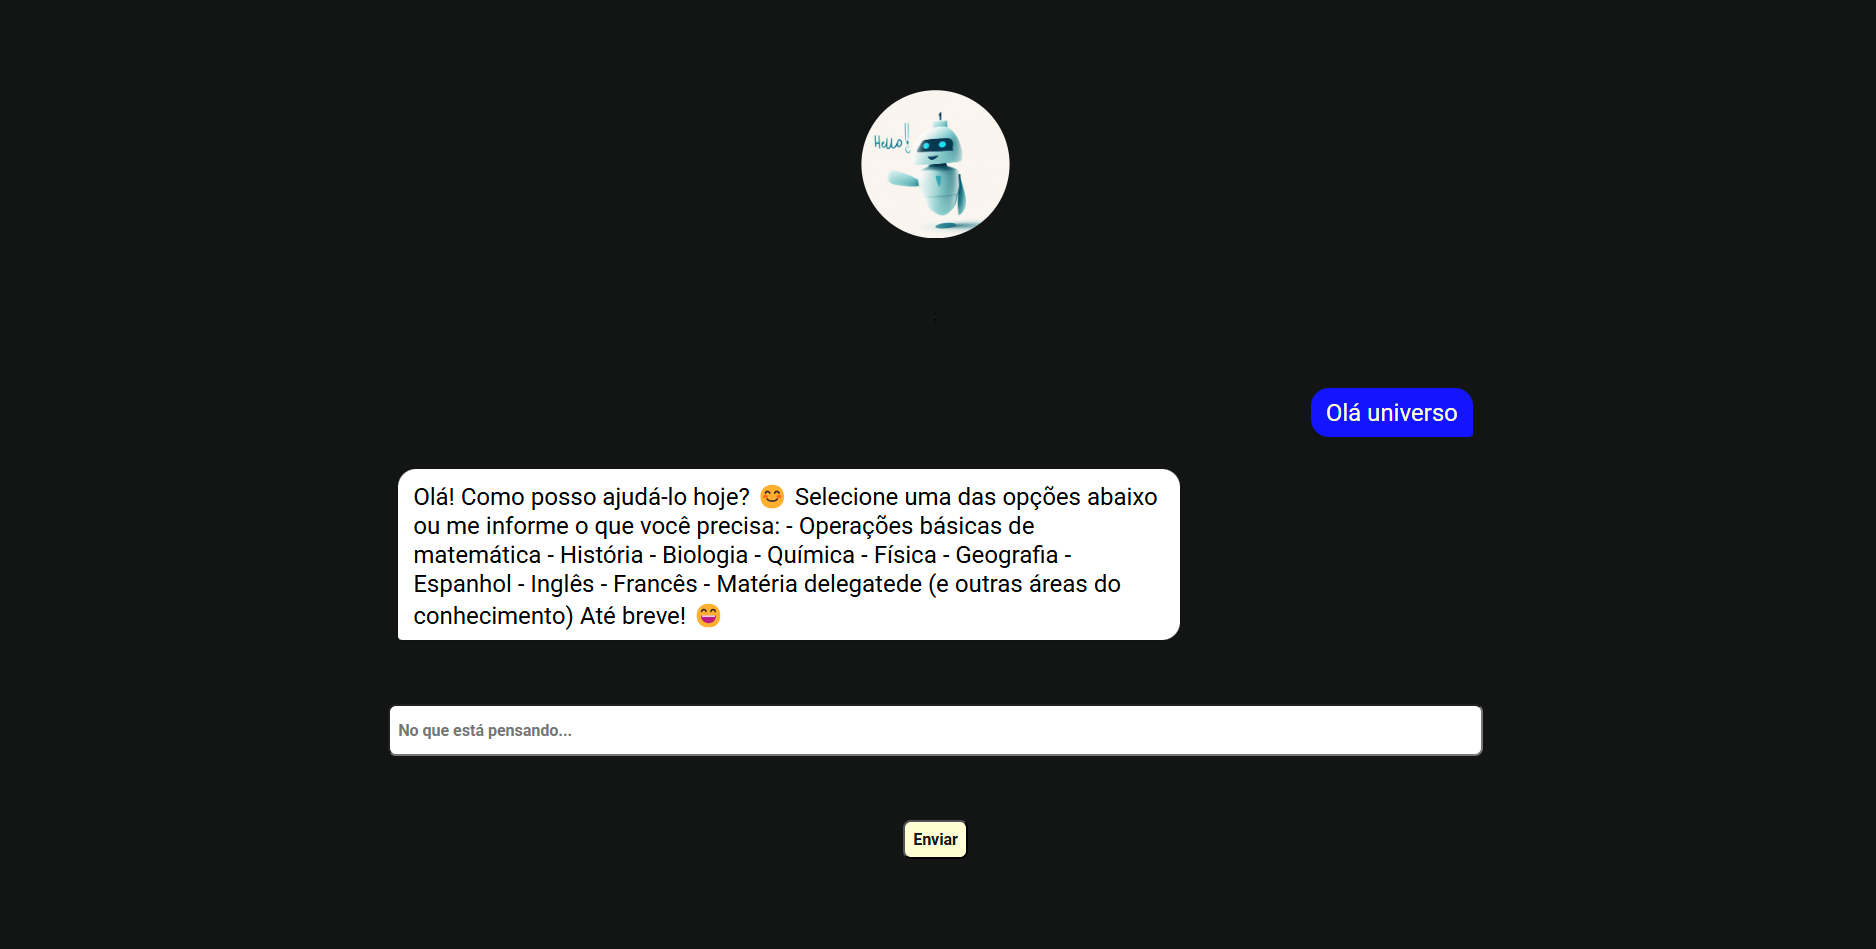
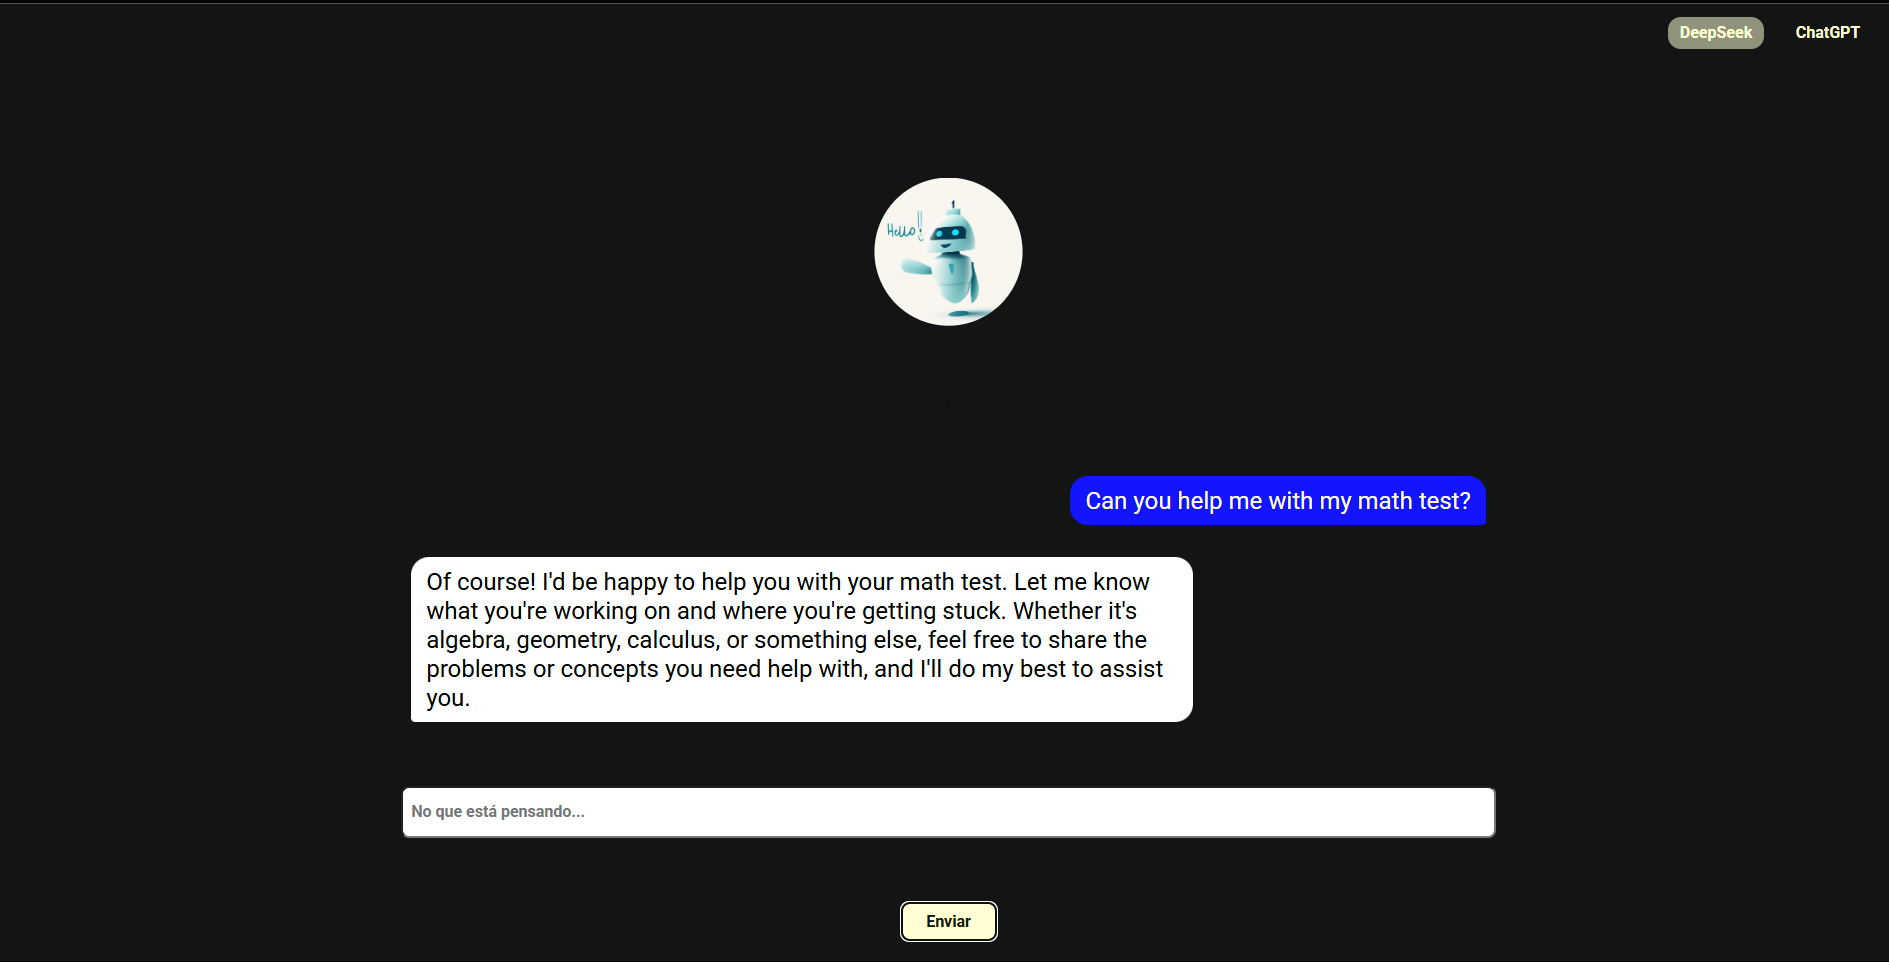
feat: added chatGPT integration, applied dependency inversion to API CALL and updated layout to be responsive on mobile

diff --git a/src/components/Chat/index.tsx b/src/components/Chat/index.tsx
@@ -2,38 +2,25 @@ import React, { useState } from "react";
 import "./styles.scss";
 import bot from "../../images/bot.jpg";
 
-export function ChatComponent() {
+import { IApiService } from "../../interfaces/IApiService";
+
+interface ChatComponentProps {
+  apiService: IApiService;
+  selectedApi: any;
+}
+
+export function ChatComponent({ apiService, selectedApi }: ChatComponentProps) {
   const [inputMessage, setInputMessage] = useState("");
   const [response, setResponse] = useState("");
-
   const [userQuestion, setUserQuestion] = useState("");
   const [hideChat, setHideChat] = useState(true);
   const [isLoading, setIsLoading] = useState(false);
   const [showTitle, setShowTitle] = useState(true);
 
   const fetchIaData = async (message: string) => {
-    const apiResponse = await fetch(
-      "https://openrouter.ai/api/v1/chat/completions",
-      {
-        method: "POST",
-        headers: {
-          Authorization:
-            `Bearer ${process.env.REACT_APP_IA_API_KEY}`,
-            "Content-Type": "application/json",
-        },
-        body: JSON.stringify({
-          model: "deepseek/deepseek-r1-distill-llama-70b:free",
-          messages: [
-            {
-              role: "user",
-              content: message,
-            },
-          ],
-        }),
-      }
-    )
-      .then((res) => res.json())
-      .then((data) => data.choices[0].message.content)
+    const apiResponse = await apiService
+      .fetchResponse(message)
+      .then((res) => res)
       .catch((err) => {
         console.log("UNEXPECTED ERROR", err);
       });
@@ -47,10 +34,10 @@ export function ChatComponent() {
     setIsLoading(true);
     setShowTitle(false);
     setResponse("");
+    setInputMessage("");
 
     fetchIaData(inputMessage).then((result) => {
-      setResponse(result);
-      setInputMessage("");
+      setResponse(result || "Erro processando os dados");
       setHideChat(false);
       setIsLoading(false);
     });
@@ -62,7 +49,7 @@ export function ChatComponent() {
         <div className="image">
           <img src={bot} alt="Bot" />
         </div>
-        {showTitle === true && <h1> Inicie a conversa </h1>};
+        {showTitle === true && <h1> Inicie a conversa com {selectedApi} </h1>};
         {isLoading === true && <div className="loading">...</div>}
         {!hideChat && (
           <div className="chat-container">

diff --git a/src/App.tsx b/src/App.tsx
@@ -1,10 +1,39 @@
-import { Chat } from './components/Chat';
-import './styles/global.scss'
+import { useEffect, useState } from "react";
+import { Chat } from "./components/Chat";
+import "./styles/global.scss";
+import DeepSeekService from "./services/DeepSeekService";
+import ChatGptService from "./services/ChatGptService";
+import { Menu } from "./components/Menu";
+import externalApis from "./data/external-apis.json";
+import { IExternalApi } from "./interfaces/IExternalApi";
 
 function App() {
+  const [selectedApi, setSelectedApi] = useState<string>("");
+  const [availableApis, setAvailableApis] = useState<IExternalApi[]>([]);
+
+  useEffect(() => {
+    setAvailableApis(externalApis.data);
+    const fetchedApis = externalApis.data.map(
+      (item: IExternalApi) => item.identifier
+    );
+
+    setSelectedApi(fetchedApis[0]);
+  }, []);
+
+  const apiService =
+    //IT's the same URL but it may change depending on API Service
+    selectedApi === "deepseek"
+      ? new DeepSeekService(process.env.REACT_APP_IA_API_KEY || "")
+      : new ChatGptService(process.env.REACT_APP_IA_API_KEY || "");
+
   return (
     <div className="App">
-      <Chat/>
+      <Menu
+        setSelectedApi={setSelectedApi}
+        selectedItem={selectedApi}
+        availableApis={availableApis}
+      />
+      <Chat apiService={apiService} selectedApi={selectedApi} />
     </div>
   );
 }

diff --git a/src/services/DeepSeekService.ts b/src/services/DeepSeekService.ts
@@ -1,0 +1,41 @@
+import { IApiService } from "../interfaces/IApiService";
+
+class DeepSeekService implements IApiService {
+  private apiKey: string;
+
+  constructor(apiKey: string) {
+    this.apiKey = apiKey;
+  }
+
+  async fetchResponse(message: string): Promise<string> {
+    try {
+      const response = await fetch(
+        "https://openrouter.ai/api/v1/chat/completions",
+        {
+          method: "POST",
+          headers: {
+            Authorization: `Bearer ${this.apiKey}`,
+            "Content-Type": "application/json",
+          },
+          body: JSON.stringify({
+            model: "deepseek/deepseek-r1-distill-llama-70b:free",
+            messages: [
+              {
+                role: "user",
+                content: message,
+              },
+            ],
+          }),
+        }
+      );
+
+      const data = await response.json();
+      return data.choices[0].message.content;
+    } catch (error) {
+      console.error("Error fetching response from OpenRouter with deepseek engine:", error);
+      return "Error fetching response.";
+    }
+  }
+}
+
+export default DeepSeekService;

diff --git a/src/services/ChatGptService.ts b/src/services/ChatGptService.ts
@@ -1,0 +1,41 @@
+import { IApiService } from "../interfaces/IApiService";
+
+class ChatGptService implements IApiService {
+  private apiKey: string;
+
+  constructor(apiKey: string) {
+    this.apiKey = apiKey;
+  }
+
+  async fetchResponse(message: string): Promise<string> {
+    try {
+      const response = await fetch(
+        "https://openrouter.ai/api/v1/chat/completions",
+        {
+          method: "POST",
+          headers: {
+            Authorization: `Bearer ${this.apiKey}`,
+            "Content-Type": "application/json",
+          },
+          body: JSON.stringify({
+            model: "gpt-3.5-turbo",
+            messages: [
+              {
+                role: "user",
+                content: message,
+              },
+            ],
+          }),
+        }
+      );
+
+      const data = await response.json();
+      return data.choices[0].message.content;
+    } catch (error) {
+      console.error("Error fetching response from OpenRouter with chatgpt engine:", error);
+      return "Error fetching response.";
+    }
+  }
+}
+
+export default ChatGptService;

diff --git a/src/components/Menu/index.tsx b/src/components/Menu/index.tsx
@@ -1,0 +1,41 @@
+import React, { useState } from "react";
+import "./styles.scss";
+import { IExternalApi } from "../../interfaces/IExternalApi";
+
+interface MenuComponentProps {
+  selectedItem: string | null;
+  setSelectedApi: (value: string) => void;
+  availableApis: IExternalApi[];
+}
+export function MenuComponent({
+  selectedItem,
+  setSelectedApi,
+  availableApis,
+}: MenuComponentProps) {
+  const getClassNames = (item: string) => {
+    if (item === selectedItem) return "menu-item selected";
+    return "menu-item";
+  };
+
+  const handleButtonClick = (content: string | null) => {
+    setSelectedApi(content || "");
+  };
+
+  return (
+    <>
+      <div className="menu">
+        {availableApis.map((apiItem) => (
+          <button
+            onClick={(e) => handleButtonClick(apiItem.identifier)}
+            className={getClassNames(apiItem.identifier)}
+            key={apiItem.identifier}
+          >
+            {apiItem.name}
+          </button>
+        ))}
+      </div>
+    </>
+  );
+}
+
+export const Menu = React.memo(MenuComponent);

diff --git a/src/components/Menu/styles.scss b/src/components/Menu/styles.scss
@@ -1,0 +1,32 @@
+.menu {
+  width: 100%;
+  display: flex;
+  justify-content: end;
+  gap: 1rem;
+  padding-bottom: 0.8rem;
+  padding-top: 0.8rem;
+  margin-bottom: 1rem;
+  text-align: end;
+  position: sticky;
+  top: 0;
+  background-color: var(--primary);
+  z-index: 999;
+
+  span {
+    color: var(--gray);
+  }
+
+  .menu-item {
+    cursor: pointer;
+    background-color: var(--primary);
+    color: var(--primary-light);
+    padding: 0.4rem;
+    border: none;
+  }
+
+  .selected {
+    border-radius: 0.8em;
+    background-color: var(--primary-light-transparent);
+    color: var(--primary-light);
+  }
+}

diff --git a/src/components/Chat/styles.scss b/src/components/Chat/styles.scss
@@ -18,7 +18,6 @@
     }
   }
 
-  //depois daqui
   .chat-container {
     display: flex;
     flex-direction: column;
@@ -69,12 +68,31 @@
       opacity: 100;
     }
   }
-  
+
   @keyframes l {
     to {
-      clip-path: inset(0)
+      clip-path: inset(0);
     }
   }
 
-  //até aqui
+  @media (max-width: 769px) {
+    padding-left: 0;
+    padding-right: 0;
+    .chat-container {
+      gap: 2rem;
+      width: 100%;
+    }
+
+    .message {
+      padding: 1rem;
+    }
+    input {
+      border-radius: 0.5em;
+      width: 96%;
+      height: 3rem;
+    }
+    button {
+      width: 40%;
+    }
+  }
 }

diff --git a/src/styles/global.scss b/src/styles/global.scss
@@ -42,6 +42,7 @@ button {
     padding: 0.5rem;
     border-radius: 0.5em;
     cursor: pointer;
+    width: 6rem;
 }
 
 input {

diff --git a/src/interfaces/IExternalApi.ts b/src/interfaces/IExternalApi.ts
@@ -1,0 +1,5 @@
+export interface IExternalApi {
+  name: string,
+  identifier: string,
+  description: string,
+}

diff --git a/src/interfaces/IApiService.ts b/src/interfaces/IApiService.ts
@@ -1,0 +1,3 @@
+export interface IApiService {
+  fetchResponse(message: string): Promise<string>;
+}

diff --git a/README.md b/README.md
@@ -1,6 +1,6 @@
-# Chat with DeepSeek via OpenRouter
+# Chat with DeepSeek or ChatGPT via OpenRouter
 
-This project implements a chatbot in React that communicates with the **DeepSeek** AI model using the **OpenRouter** API.
+This project implements a chatbot in React that communicates with the **DeepSeek**  and **ChatGPT** AI model using the **OpenRouter** API.
 
 ## 🛠 Technologies Used
 
@@ -12,9 +12,38 @@ This project implements a chatbot in React that communicates with the **DeepSeek
 ## 🚀 Features
 
 - Send messages to AI via OpenRouter.
-- Display responses from the DeepSeek model.
+- The user can choose AI ENGINE he chats with based on a toggle on the top of the screen
+- Display responses from the model depending on selected service. 
+  > At this point, it's cool that I applied the Dependency Inversion concept, so it's easy to add new IA services in the future
+
 - Loading indicator while processing the response.
 - Simple and intuitive interface.
+
+## 📂 Project Structure
+
+```
+├── src/
+│ ├── components/
+│ │ ├── Chat/
+│ │ │ ├── index.tsx
+│ │ │ └── styles.scss
+│ │ └── Menu/
+│ │ ├── index.tsx
+│ │ └── styles.scss
+│ ├── data/
+│ │ └── external-apis.json
+│ ├── images/...
+│ ├── interfaces/
+│ │ ├── IApiServices.ts
+│ │ └── IExternalApi.ts
+│ ├── services/
+│ │ ├── ChatGptServices/
+│ │ └── DeepSeekServices/
+│ ├── styles/global.scss
+│ ├── App.tsx
+│ ├── index.tsx
+│ 
+```
 
 ## 📦 Installation and Execution
 
@@ -50,7 +79,6 @@ The project communicates with the OpenRouter API to retrieve AI responses. Make 
 
 ## 📝 Future Improvements
 
-- Add support for multiple AI models.
 - Enhance the interface with animations and visual feedback.
 - Implement conversation history.
 
